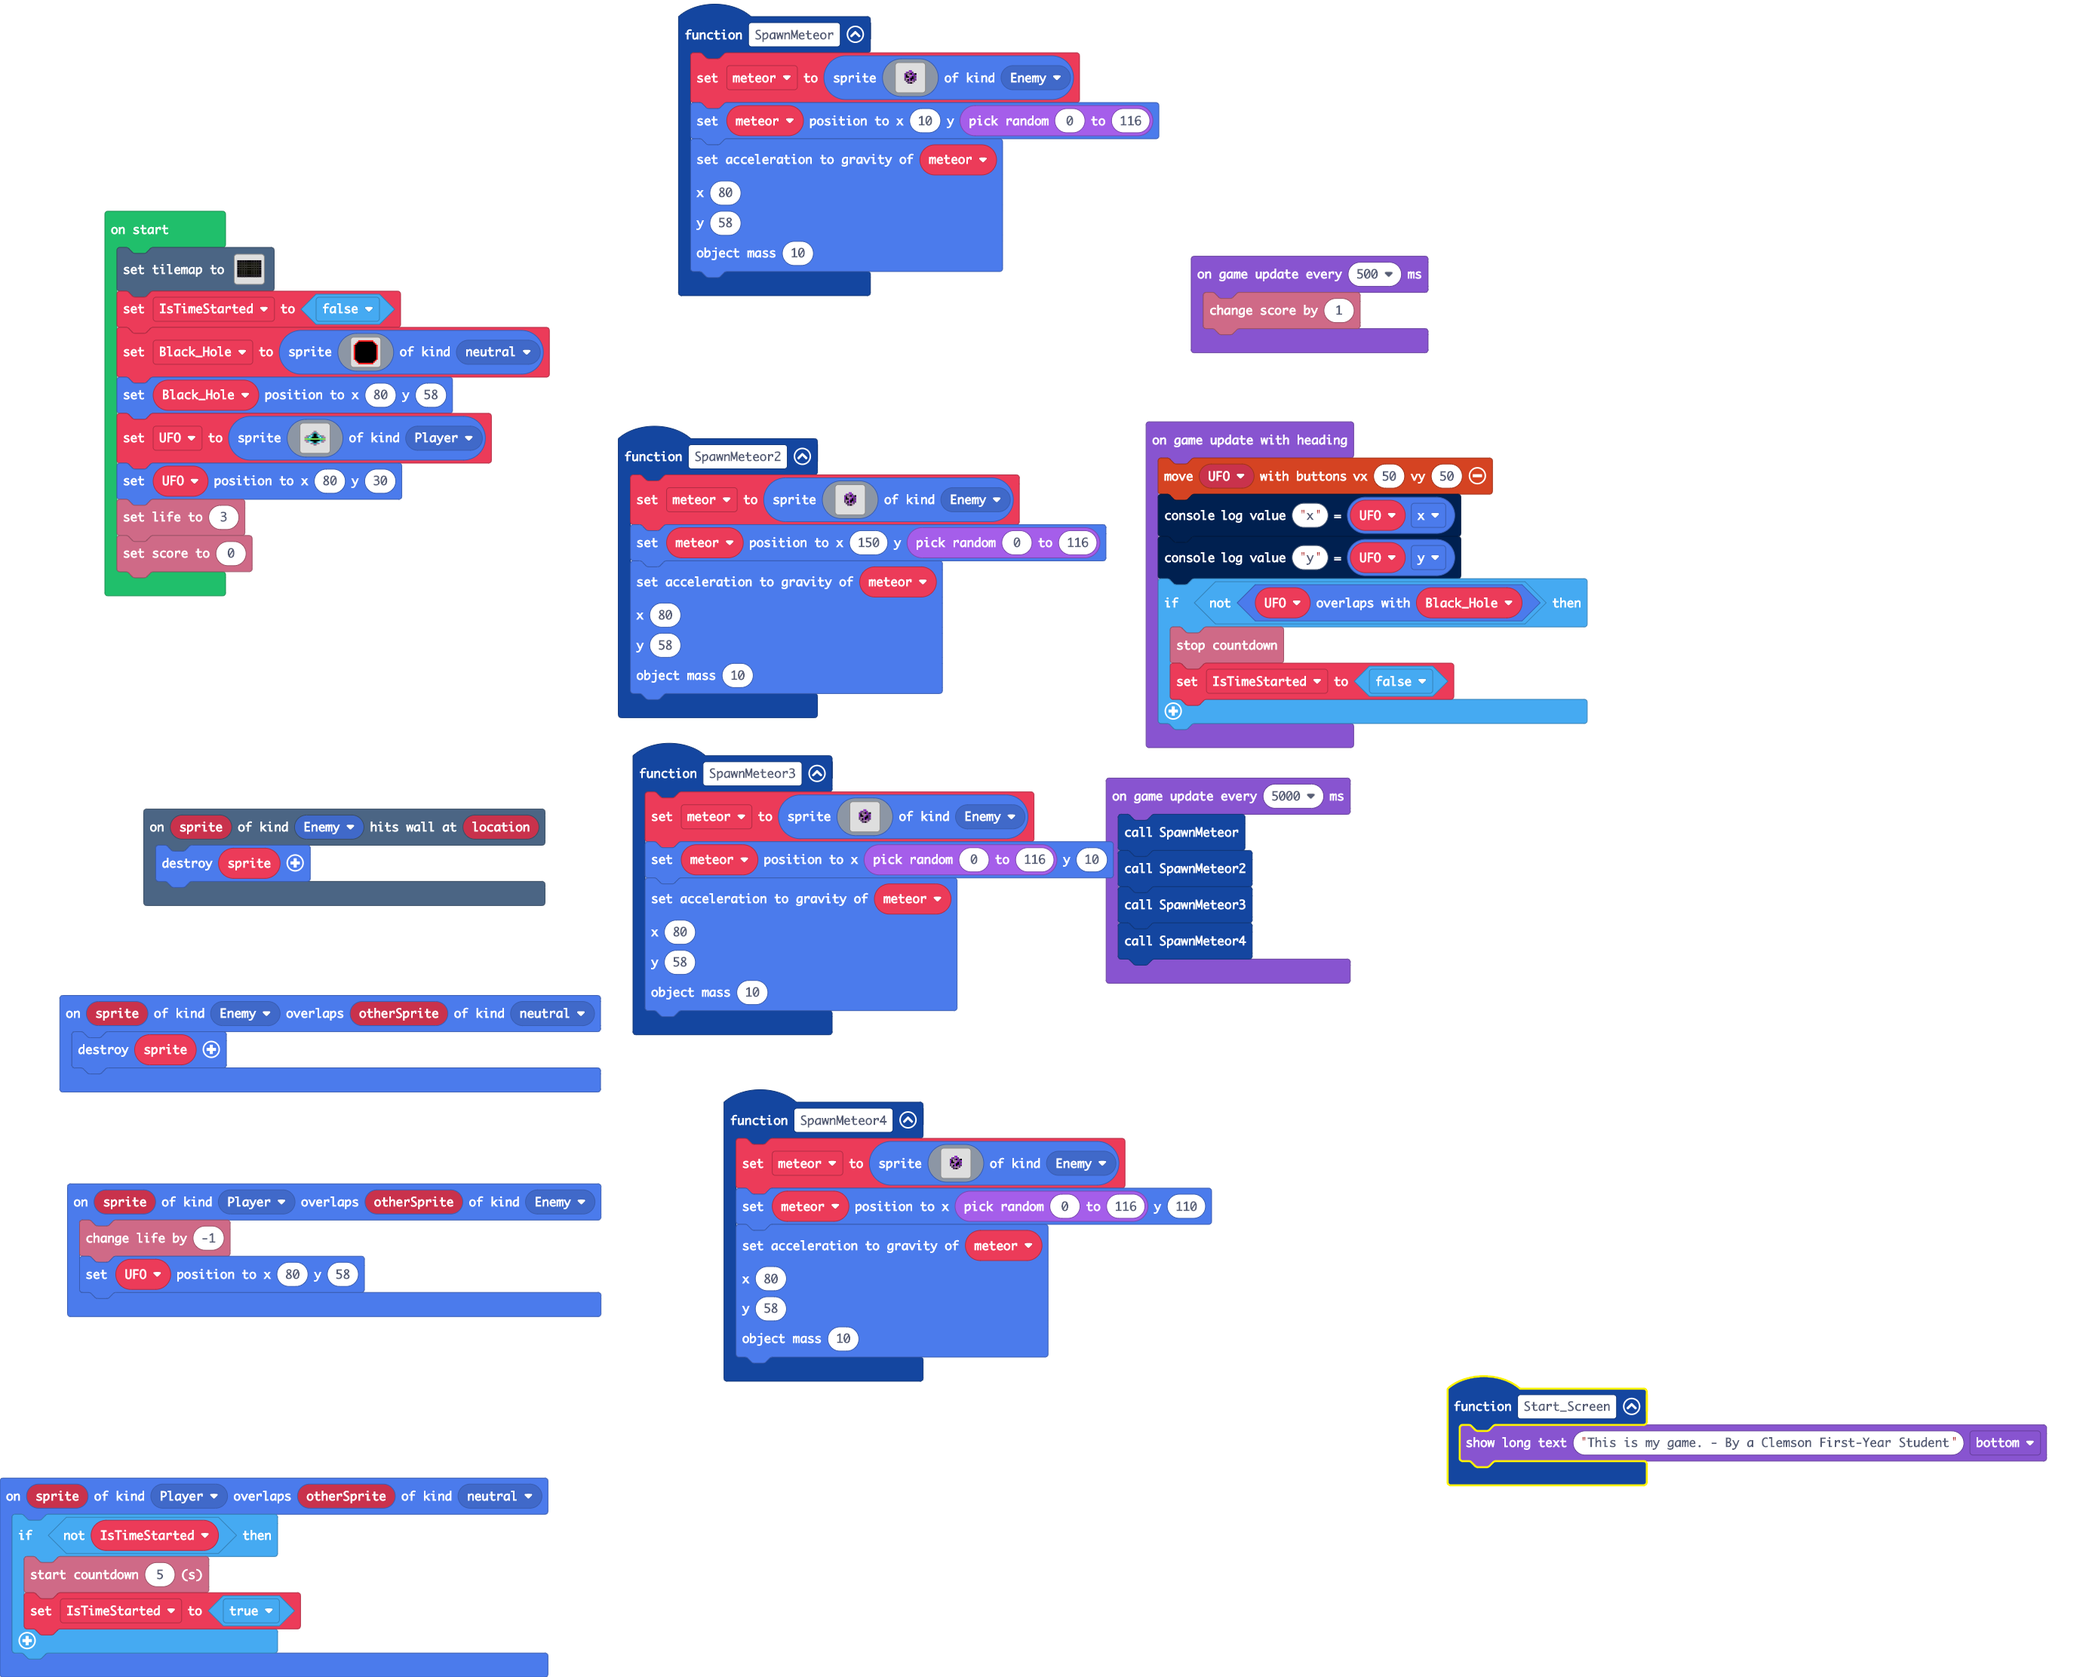
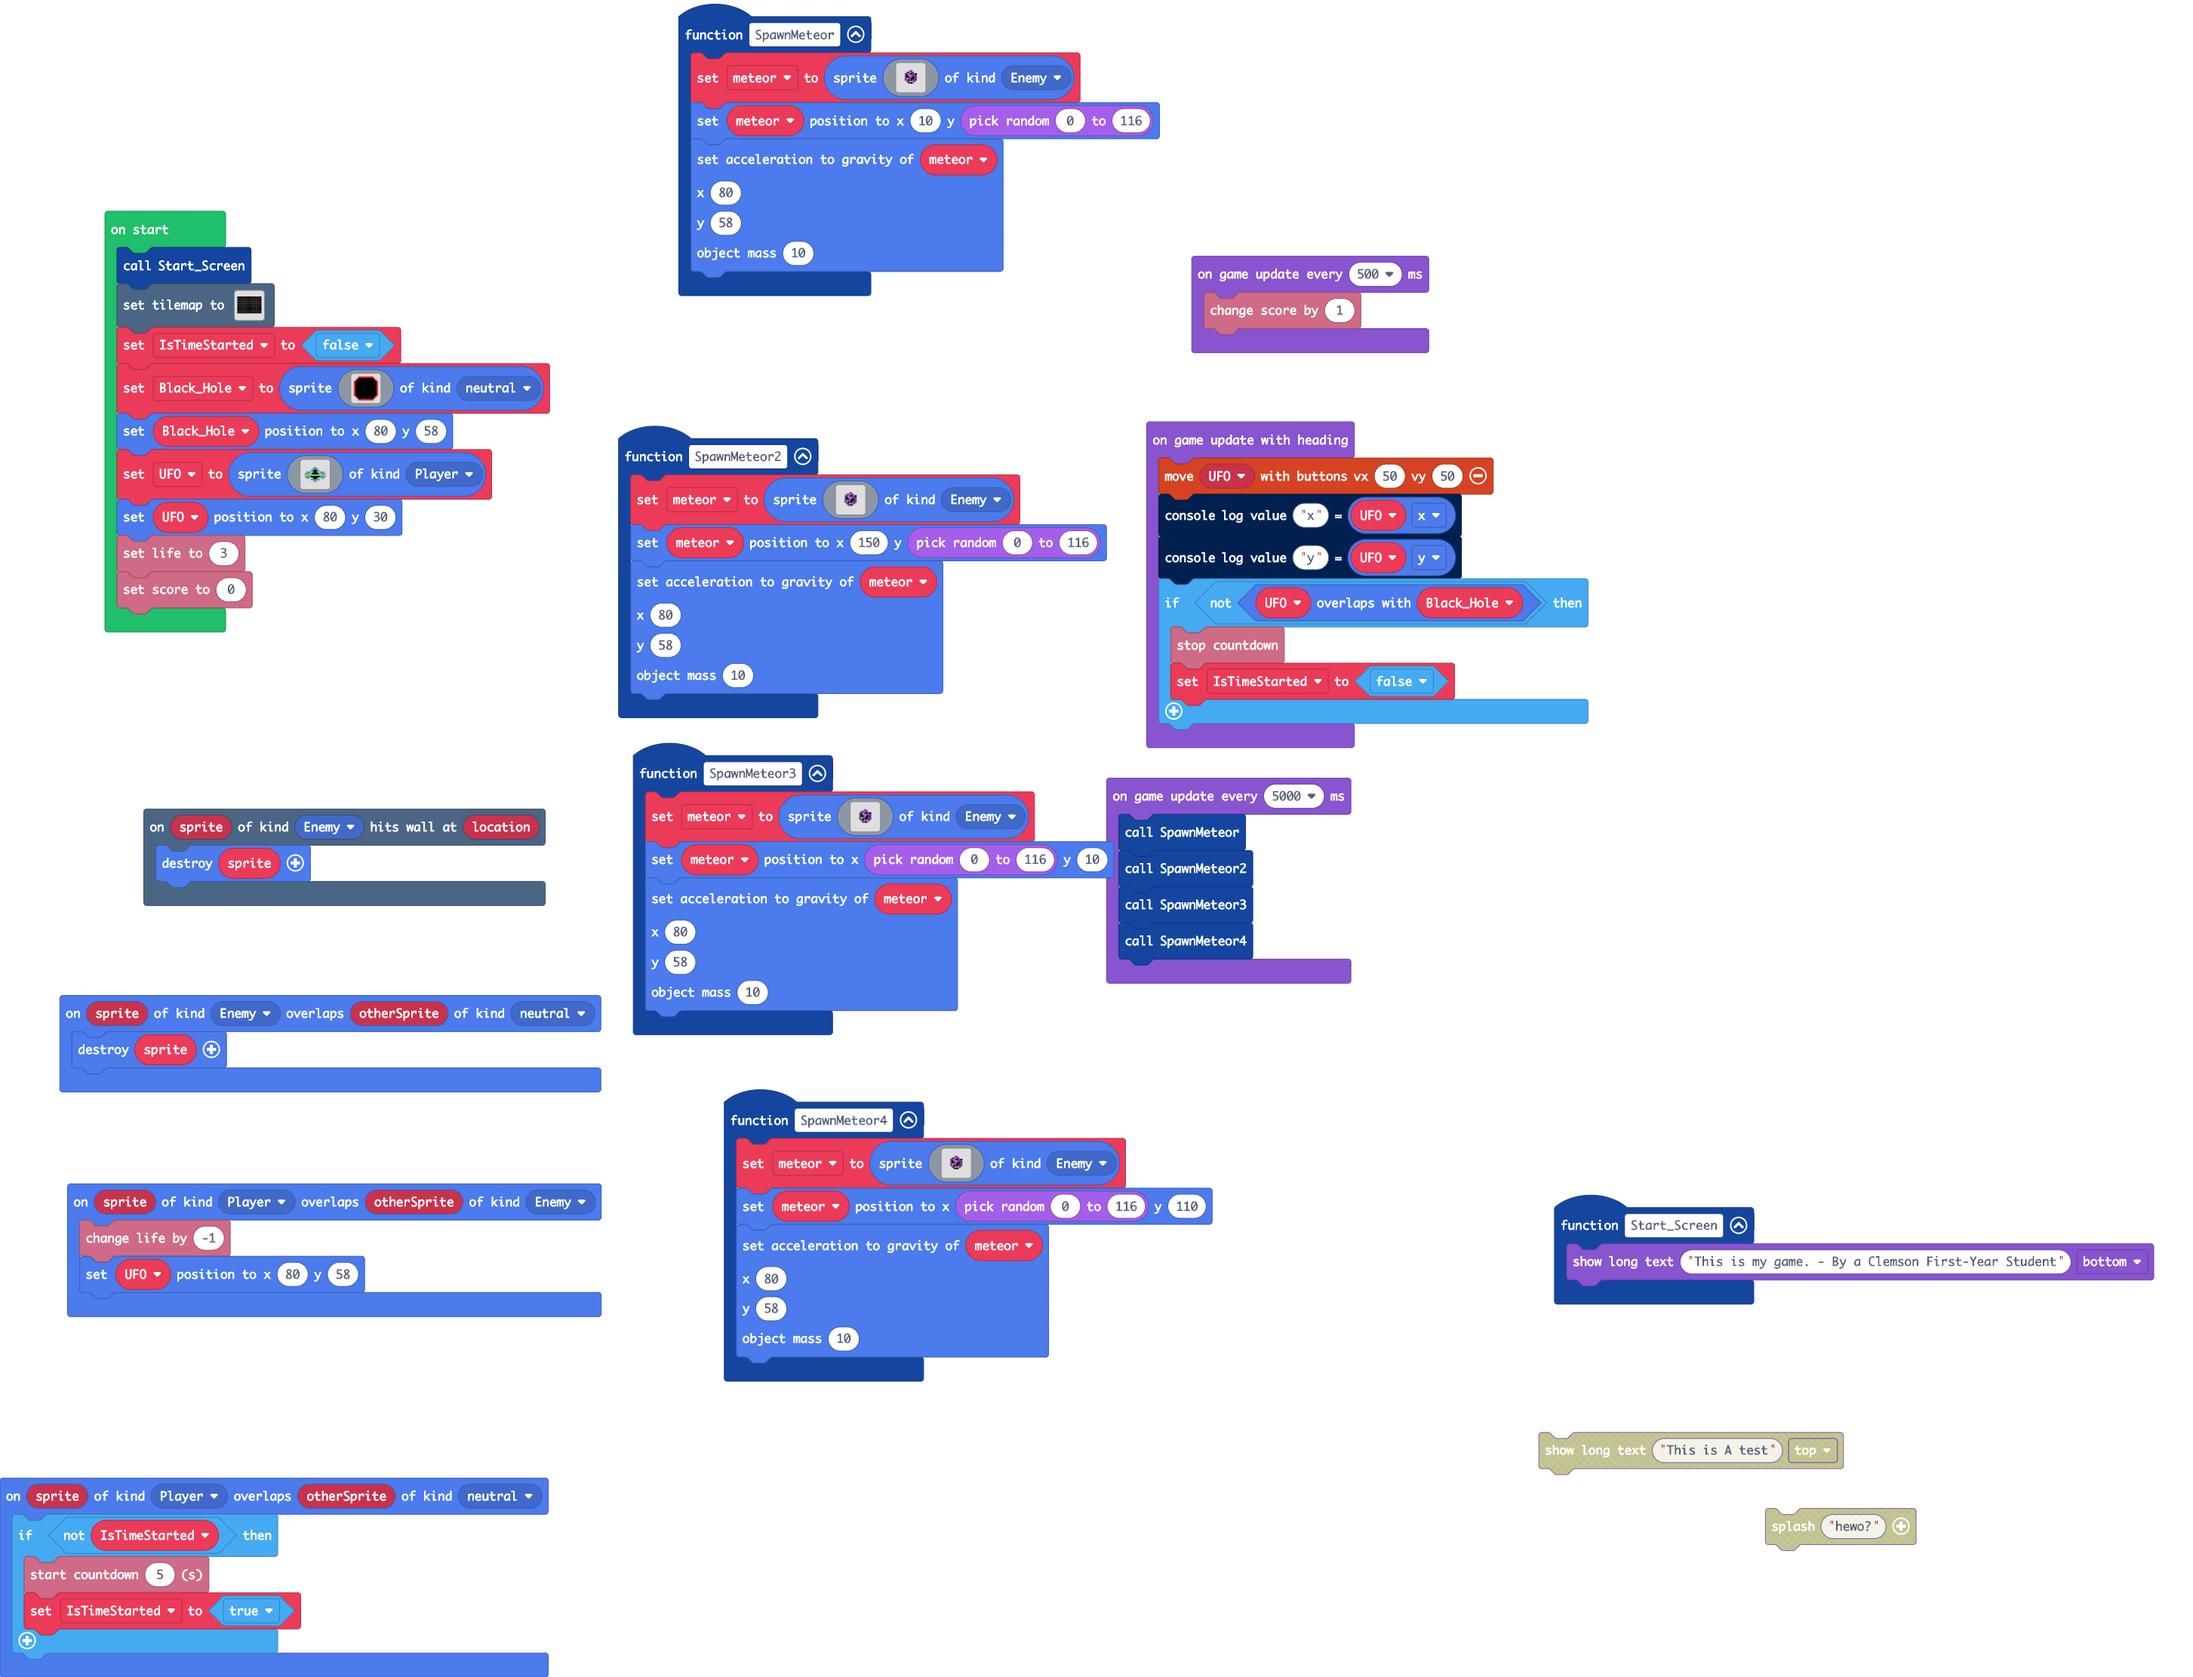
Update main.blocks, main.ts

diff --git a/main.ts b/main.ts
@@ -141,6 +141,7 @@ let meteor: Sprite = null
 let UFO: Sprite = null
 let Black_Hole: Sprite = null
 let IsTimeStarted = false
+Start_Screen()
[1 lines of base64/hex data omitted]
     . . . . . . . . . . 
     . . . . . . . . . . 
